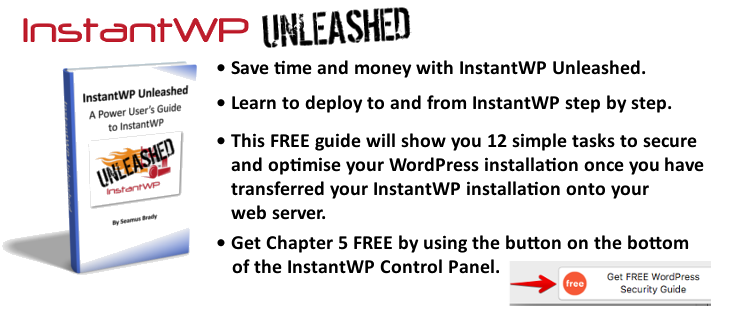
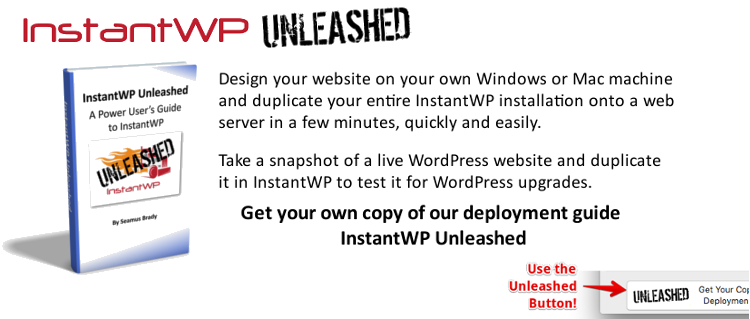
Updated readme-screen/button.

diff --git a/core/docs/documentation.html b/core/docs/documentation.html
@@ -328,7 +328,7 @@ kbd {
 
 <body>
 
-<p><img src="images/logo-top.png" alt=""></p>
+<p><a href="https://instantwp.com/unleashed/"><img src="images/web-banner.png"></a></p>
 
 <h1 id="toc_0">InstantWP Documentation</h1>
 

diff --git a/core/docs/documentation.md b/core/docs/documentation.md
@@ -1,4 +1,4 @@
-![](images/logo-top.png)
+[<img src="images/web-banner.png">](https://instantwp.com/unleashed/)
 
 # InstantWP Documentation
 
